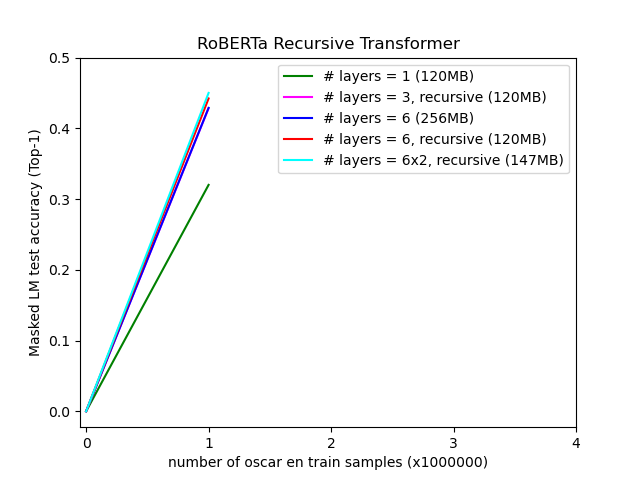
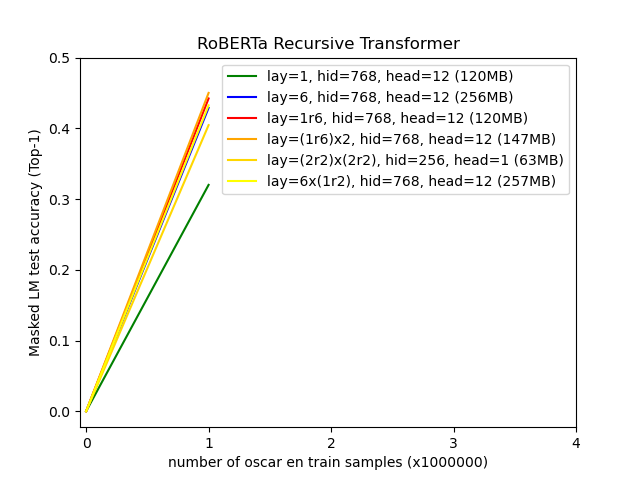
add updated RobertaRecursiveTransformer+RobertaRecursiveTransformerSuperblocks graphs, archive all Nov2022 graphs

Changed region(s): [[0.1875, 0.125, 0.875, 0.6875], [0.1562, 0.6875, 0.1875, 0.7812], [0.125, 0.7812, 0.1562, 0.8438]]

diff --git a/SBNLPpt/SBNLPpt_globalDefs.py b/SBNLPpt/SBNLPpt_globalDefs.py
@@ -43,12 +43,11 @@ useAlgorithmGIA = False
 
 sortDataFilesByName = True	#orig; False
 
-#syntactic bias selection (part 1):
-recursiveLayers = True	#optional
-memoryTraceBias = False	 #optional	#nncustom.Linear adjusts training/inference based on network prior activations
-simulatedDendriticBranches = False	#optional #nncustom.Linear simulates multiple independent fully connected weights per neuron
-
-memoryTraceAtrophy = False	#initialise (dependent var)
+#initialise (dependent vars);
+recursiveLayers = False
+memoryTraceBias = False
+simulatedDendriticBranches = False
+memoryTraceAtrophy = False
 
 statePreprocessDataset = False	#only required once
 stateTrainTokeniser = False	#only required once
@@ -133,6 +132,11 @@ transformerSuperblocks = False
 
 if(useAlgorithmTransformer):
 
+	#syntactic bias selection (part 1):
+	recursiveLayers = True	#optional
+	memoryTraceBias = False	 #optional	#nncustom.Linear adjusts training/inference based on network prior activations
+	simulatedDendriticBranches = False	#optional #nncustom.Linear simulates multiple independent fully connected weights per neuron
+
 	#syntactic bias selection (part 2):
 	transformerPOSembeddings = False
 	transformerAttentionHeadPermutations = False	#calculates KQ for all attention head permutations
@@ -148,33 +152,38 @@ if(useAlgorithmTransformer):
 	transformerSuperblocksRecursiveNumberIterations = 1
 	recursiveLayersNumberIterations = 1
 	recursiveLayersEmulateOrigImplementation = False
+	transformerSuperblocksRecursive = False
+	
 	
 	#initialise (default vars);
-	numberOfHiddenLayers = 6	#6	#default: 6
+	numberOfHiddenLayers = 1	#6	#default: 6
 	numberOfAttentionHeads = 12	#default: 12	#numberOfAttentionHeadsDefault
 	hiddenLayerSizeTransformer = 768	#default: 768 (can be overridden)
 
 	if(transformerSuperblocks):
-		transformerSuperblocksNumber = 2	#segregate nlp and logic layers
+		transformerSuperblocksNumber = 1	#segregate nlp and logic layers
 		transformerSuperblocksLayerNorm = True
 		if(transformerSuperblocksLayerNorm):
 			transformerSuperblocksLayerNormList = True	#separate norm function per layer
-		transformerSuperblocksRecursive = False	#every super block is iterated multiple times
+		transformerSuperblocksRecursive = True	#every super block is iterated multiple times
 		if(transformerSuperblocksRecursive):
 			transformerSuperblocksRecursiveNumberIterations = 2	#configure
-			transformerSmall = True	#reduce GPU RAM
+			transformerSmall = False	#reduce GPU RAM
 			if(transformerSmall):
 				hiddenLayerSizeTransformer = 256
 				numberOfHiddenLayers = 2
-				numberOfAttentionHeads = 1	#prevents recursion across different attention heads, nullifying precise recursion
 	if(recursiveLayers):
-		recursiveLayersEmulateOrigImplementation = True	#emulate orig implementation so that archived models can be reloaded
+		recursiveLayersNormaliseNumParameters2 = False	#optional
+		if(recursiveLayersNormaliseNumParameters2):
+			numberOfAttentionHeads = 24
+			hiddenLayerSizeTransformer = 1536
+		recursiveLayersEmulateOrigImplementation = False	#emulate orig implementation so that archived models can be reloaded
 		if(recursiveLayersEmulateOrigImplementation):
 			recursiveLayersNumberIterations = numberOfHiddenLayers	#numberOfHiddenLayers is interpreted as recursiveLayersNumberIterations
 		else:
-			recursiveLayersNumberIterations = 2
-			numberOfAttentionHeads = 1	#prevents recursion across different attention heads, nullifying precise recursion
-
+			recursiveLayersNumberIterations = 6
+	#if(recursiveLayers or transformerSuperblocksRecursive):
+	#	numberOfAttentionHeads = 1	#prevents recursion across different attention heads, nullifying precise recursion
 
 	if(transformerAttentionHeadPermutations):
 		transformerAttentionHeadPermutationsIndependentOutput = True	#SelfOutput executes dense linear in groups of size numberOfAttentionHeads	#does not support sharedLayerWeightsOutput
@@ -319,10 +328,6 @@ if(GIAsemanticRelationVectorSpaces):
 	if(not GIAgenerateUniqueWordVectorsForRelationTypes):
 		useIndependentReverseRelationsModels = False	#else take input linear layer as forward embeddings and output linear layer [inversed] as reverse embeddings
 		
-if(recursiveLayers or memoryTraceBias or simulatedDendriticBranches or GIAsemanticRelationVectorSpaces or tokenMemoryBank or transformerAttentionHeadPermutations or transformerPOSembeddings or transformerSuperblocks):
-	useSyntacticBiases = True
-else:
-	useSyntacticBiases = False
 if(memoryTraceBias or simulatedDendriticBranches):
 	useLinearCustom = True
 else:
@@ -363,8 +368,12 @@ if(simulatedDendriticBranches):
 	normaliseActivationSparsity = True
 else:
 	numberOfIndependentDendriticBranches = 1
-	
+
 if(useAlgorithmTransformer):
+	if(recursiveLayers or memoryTraceBias or simulatedDendriticBranches or GIAsemanticRelationVectorSpaces or tokenMemoryBank or transformerAttentionHeadPermutations or transformerPOSembeddings or transformerSuperblocks):
+		useSyntacticBiases = True
+	else:
+		useSyntacticBiases = False
 	if(not useSyntacticBiases):
 		officialRobertaBaseModel = False	#optional	#loads official huggingface model with default parameters - https://huggingface.co/roberta-base/tree/main
 	else:
@@ -489,7 +498,7 @@ if(useAlgorithmTransformer):
 			sharedLayerWeights = False	#orig recursiveLayers implementation
 			if(sharedLayerWeights):
 				sharedLayerWeightsOutput = True	#share RobertaOutputSharedLayerOutput/RobertaSelfOutputSharedLayerOutput parameters also
-			recursiveLayersNormaliseNumParameters = False	#default: True	#optional	#if use recursiveLayers normalise/equalise num of parameters with respect to !recursiveLayers
+			recursiveLayersNormaliseNumParameters = False	#default: False	#optional	#if use recursiveLayers normalise/equalise num of parameters with respect to !recursiveLayers	#legacy
 			if(recursiveLayersNormaliseNumParameters):
 				recursiveLayersNormaliseNumParametersIntermediate = True	#normalise intermediateSize parameters also
 		else:
@@ -563,6 +572,9 @@ if(useAlgorithmTransformer):
 			else:
 				numberOfHiddenLayersTokenMemoryBankParameters = numberOfHiddenLayers
 elif(useAlgorithmRNN):
+	#syntactic bias selection (part 1):
+	recursiveLayers = True
+	
 	hiddenLayerSize = 1024	#65536	#2^16 - large hidden size is required for recursive RNN as parameters are shared across a) sequence length and b) number of layers
 	if(SBNLPpt_RNNmodel.applyIOconversionLayers):
 		embeddingLayerSize = 768
@@ -580,6 +592,9 @@ elif(useAlgorithmRNN):
 	else:
 		bidirectional = 1
 elif(useAlgorithmSANI):
+	#syntactic bias selection (part 1):
+	recursiveLayers = True
+	
 	hiddenLayerSize = 1024	#1024	#8192	#1024	#depends on GPU memory	#2^16 = 65536 - large hidden size is required for recursive SANI as parameters are shared across a) sequence length and b) number of layers
 	if(SBNLPpt_SANImodel.applyIOconversionLayers):
 		embeddingLayerSize = 768

diff --git a/graph/RobertaRecursiveTransformerSuperblocks.py b/graph/RobertaRecursiveTransformerSuperblocks.py
@@ -3,18 +3,20 @@ import numpy as np
 
 x = np.array([0, 1, 2, 3, 4])
 y1 = np.array([0, 0.3200524007320404, np.nan, np.nan, np.nan])
-y2 = np.array([0, 0.4284414293527603, np.nan, np.nan, np.nan])
-y3 = np.array([0, 0.42890446846485136, np.nan, np.nan, np.nan])
-y4 = np.array([0, 0.44220867459774016, np.nan, np.nan, np.nan])
-y5 = np.array([0, 0.45005820715427397, np.nan, np.nan, np.nan])
-#y6 = np.array([0, 0.44330320842266085, np.nan, np.nan, np.nan])
+y2 = np.array([0, 0.42890446846485136, np.nan, np.nan, np.nan])
+y3 = np.array([0, 0.44220867459774016, np.nan, np.nan, np.nan])
+y4 = np.array([0, 0.45005820715427397, np.nan, np.nan, np.nan])
+#y4 = np.array([0, 0.44330320842266085, np.nan, np.nan, np.nan])
+y5 = np.array([0, 0.4045298686504364, np.nan, np.nan, np.nan])
+y6 = np.array([0, 0.43245698540210725, np.nan, np.nan, np.nan])
 
-l1, = plt.plot(x, y1, color='green', label='# layers = 1 (120MB)')
-l2, = plt.plot(x, y2, color='magenta', label='# layers = 3, recursive (120MB)')
-l3, = plt.plot(x, y3, color='blue', label='# layers = 6 (256MB)')
-l4, = plt.plot(x, y4, color='red', label='# layers = 6, recursive (120MB)')
-l5, = plt.plot(x, y5, color='aqua', label='# layers = 6x2, recursive (147MB)')
-#l6, = plt.plot(x, y6, color='aqua', label='# layers = 6x2, recursive (147MB) [transformerSegregatedLayersLayerNormList]')
+l1, = plt.plot(x, y1, color='green', label='lay=1, hid=768, head=12 (120MB)')
+l2, = plt.plot(x, y2, color='blue', label='lay=6, hid=768, head=12 (256MB)')
+l3, = plt.plot(x, y3, color='red', label='lay=1r6, hid=768, head=12 (120MB)')
+l4, = plt.plot(x, y4, color='orange', label='lay=(1r6)x2, hid=768, head=12 (147MB)')
+#l4, = plt.plot(x, y4, color='aqua', label='lay=(1r6)x2, hid=768, head=12 (147MB) [transformerSegregatedLayersLayerNormList]')
+l5, = plt.plot(x, y5, color='gold', label='lay=(2r2)x(2r2), hid=256, head=1 (63MB)')
+l6, = plt.plot(x, y6, color='yellow', label='lay=6x(1r2), hid=768, head=12 (257MB)')
 
 plt.xticks(np.arange(min(x), max(x)+1, 1.0))
 plt.yticks(np.arange(0, 0.5+0.1, 0.1))
@@ -23,6 +25,6 @@ plt.xlabel("number of oscar en train samples (x1000000)")
 plt.ylabel("Masked LM test accuracy (Top-1)")
 plt.title("RoBERTa Recursive Transformer")
 
-plt.legend(handles=[l1, l2, l3, l4, l5])
+plt.legend(handles=[l1, l2, l3, l4, l5, l6])
 
 plt.show()

diff --git a/graph/RobertaRecursiveTransformer.py b/graph/RobertaRecursiveTransformer.py
@@ -2,25 +2,23 @@ import matplotlib.pyplot as plt
 import numpy as np
 
 x = np.array([0, 1, 2, 3, 4])
-y1 = np.array([0, 0.4007114856934547, 0.4485383033657074, 0.4697808350682259, 0.4805689078116417])
-y2 = np.array([0, 0.4195622387599945, 0.45833434972524645, 0.477471009747982, 0.4880324535870552])
-y3 = np.array([0, 0.32205438960790633, 0.34977506301760675, 0.3640139799118042, 0.3723136756336689])
-y4 = np.array([0, 0.4107974250018597, 0.44753125154256823, 0.46352191767930984, 0.4760648959302902])
-y5 = np.array([0, 0.30340382710933683, 0.3310104872369766, 0.34348129745364187, 0.35091807383656504])
+y1 = np.array([0, 0.3200524007320404, np.nan, np.nan, np.nan])
+y2 = np.array([0, 0.42890446846485136, np.nan, np.nan, np.nan])
+y3 = np.array([0, 0.44220867459774016, np.nan, np.nan, np.nan])
+y4 = np.array([0, 0.4473719531536102, np.nan, np.nan, np.nan])
 
-l1, = plt.plot(x, y1, color='r', label='# layers = 6, recursive:shared params (norm:249MB)')
-l2, = plt.plot(x, y2, color='b', label='# layers = 6 (256MB)')
-l3, = plt.plot(x, y3, color='g', label='# layers = 1 (norm:249MB)')
-l4, = plt.plot(x, y4, color='pink', label='# layers = 6, recursive (120MB)')
-l5, = plt.plot(x, y5, color='lightgreen', label='# layers = 1 (120MB)')
-
+l1, = plt.plot(x, y1, color='green', label='lay=1, hid=768, head=12 (120MB)')
+l2, = plt.plot(x, y2, color='blue', label='lay=6, hid=768, head=12 (256MB)')
+l3, = plt.plot(x, y3, color='red', label='lay=1r6, hid=768, head=12 (120MB)')
+l4, = plt.plot(x, y4, color='turquoise', label='lay=1r6, hid=1536, head=24 (norm:263MB)')
 
 plt.xticks(np.arange(min(x), max(x)+1, 1.0))
+plt.yticks(np.arange(0, 0.5+0.1, 0.1))
 
 plt.xlabel("number of oscar en train samples (x1000000)")
 plt.ylabel("Masked LM test accuracy (Top-1)")
 plt.title("RoBERTa Recursive Transformer")
 
-plt.legend(handles=[l2, l1, l4, l3, l5])
+plt.legend(handles=[l1, l2, l3, l4])
 
 plt.show()

diff --git a/graph/RobertaRecursiveTransformerHeads.py b/graph/RobertaRecursiveTransformerHeads.py
@@ -1,0 +1,30 @@
+import matplotlib.pyplot as plt
+import numpy as np
+
+x = np.array([0, 1, 2, 3, 4])
+y1 = np.array([0, 0.3200524007320404, np.nan, np.nan, np.nan])
+y2 = np.array([0, 0.4284414293527603, np.nan, np.nan, np.nan])
+y3 = np.array([0, 0.42890446846485136, np.nan, np.nan, np.nan])
+y4 = np.array([0, 0.44220867459774016, np.nan, np.nan, np.nan])
+y5 = np.array([0, 0.37814562149047853, np.nan, np.nan, np.nan])
+y6 = np.array([0, 0.3787440519094467, np.nan, np.nan, np.nan])
+y7 = np.array([0, 0.4473719531536102, np.nan, np.nan, np.nan])
+
+l1, = plt.plot(x, y1, color='green', label='lay=1, hid=768, head=12 (120MB)')
+l2, = plt.plot(x, y2, color='magenta', label='lay=1r3, hid=768, head=12 (120MB)')
+l3, = plt.plot(x, y3, color='blue', label='lay=6, hid=768, head=12 (256MB)')
+l4, = plt.plot(x, y4, color='red', label='lay=1r6, hid=768, head=12 (120MB)')
+l5, = plt.plot(x, y5, color='navy', label='lay=1r6, hid=768, head=1 (123MB)')
+l6, = plt.plot(x, y6, color='purple', label='lay=1r6, hid=1024, head=1 (169MB)')
+l7, = plt.plot(x, y7, color='turquoise', label='lay=1r6, hid=1536, head=24 (norm:263MB)')
+
+plt.xticks(np.arange(min(x), max(x)+1, 1.0))
+plt.yticks(np.arange(0, 0.5+0.1, 0.1))
+
+plt.xlabel("number of oscar en train samples (x1000000)")
+plt.ylabel("Masked LM test accuracy (Top-1)")
+plt.title("RoBERTa Recursive Transformer")
+
+plt.legend(handles=[l1, l2, l3, l4, l5, l6, l7])
+
+plt.show()

diff --git a/graph/archive/Nov2022/RobertaRecursiveTransformer-Nov2022.py b/graph/archive/Nov2022/RobertaRecursiveTransformer-Nov2022.py
@@ -1,0 +1,26 @@
+import matplotlib.pyplot as plt
+import numpy as np
+
+x = np.array([0, 1, 2, 3, 4])
+y1 = np.array([0, 0.4007114856934547, 0.4485383033657074, 0.4697808350682259, 0.4805689078116417])
+y2 = np.array([0, 0.4195622387599945, 0.45833434972524645, 0.477471009747982, 0.4880324535870552])
+y3 = np.array([0, 0.32205438960790633, 0.34977506301760675, 0.3640139799118042, 0.3723136756336689])
+y4 = np.array([0, 0.4107974250018597, 0.44753125154256823, 0.46352191767930984, 0.4760648959302902])
+y5 = np.array([0, 0.30340382710933683, 0.3310104872369766, 0.34348129745364187, 0.35091807383656504])
+
+l1, = plt.plot(x, y1, color='r', label='# layers = 6, recursive:shared params (norm:249MB)')
+l2, = plt.plot(x, y2, color='b', label='# layers = 6 (256MB)')
+l3, = plt.plot(x, y3, color='g', label='# layers = 1 (norm:249MB)')
+l4, = plt.plot(x, y4, color='pink', label='# layers = 6, recursive (120MB)')
+l5, = plt.plot(x, y5, color='lightgreen', label='# layers = 1 (120MB)')
+
+
+plt.xticks(np.arange(min(x), max(x)+1, 1.0))
+
+plt.xlabel("number of oscar en train samples (x1000000)")
+plt.ylabel("Masked LM test accuracy (Top-1)")
+plt.title("RoBERTa Recursive Transformer")
+
+plt.legend(handles=[l2, l1, l4, l3, l5])
+
+plt.show()

diff --git a/README.md b/README.md
@@ -38,15 +38,25 @@ python SBNLPpt_main.py
 
 ![RobertaRecursiveTransformer.png](https://github.com/bairesearch/TSBpt/blob/master/graph/RobertaRecursiveTransformer.png?raw=true)
 
-![RobertaRecursiveTransformerLayers.png](https://github.com/bairesearch/TSBpt/blob/master/graph/RobertaRecursiveTransformerLayers.png?raw=true)
+- [RobertaRecursiveTransformerHeads.png](https://github.com/bairesearch/TSBpt/blob/master/graph/RobertaRecursiveTransformerHeads.png?raw=true)
+
+### archive
+
+![RobertaRecursiveTransformerLayers-Nov2022.png](https://github.com/bairesearch/TSBpt/blob/master/graph/archive/Nov2022/RobertaRecursiveTransformerLayers-Nov2022.png?raw=true)
+
+- [recursiveLayers1a.drawio.png](https://github.com/bairesearch/TSBpt/blob/master/graph/archive/recursiveLayers1a.drawio.png?raw=true)
+- [RobertaRecursiveTransformer-Nov2022.png](https://github.com/bairesearch/TSBpt/blob/master/graph/archive/Nov2022/RobertaRecursiveTransformer-Nov2022.png?raw=true)
 
 ## transformerSuperblocks
 
 ![transformerSuperblocks1b.drawio.png](https://github.com/bairesearch/TSBpt/blob/master/graph/transformerSuperblocks1b.drawio.png?raw=true)
 
-![RobertaRecursiveTransformerSuperblocks-Nov2022.png](https://github.com/bairesearch/TSBpt/blob/master/graph/RobertaRecursiveTransformerSuperblocks-Nov2022.png?raw=true)
-
 ![RobertaRecursiveTransformerSuperblocks.png](https://github.com/bairesearch/TSBpt/blob/master/graph/RobertaRecursiveTransformerSuperblocks.png?raw=true)
+
+### archive
+
+- [transformerSuperblocks1a.drawio.png](https://github.com/bairesearch/TSBpt/blob/master/graph/archive/transformerSuperblocks1a.drawio.png?raw=true)
+- [RobertaRecursiveTransformerSuperblocks-Nov2022.png](https://github.com/bairesearch/TSBpt/blob/master/graph/archive/Nov2022/RobertaRecursiveTransformerSuperblocks-Nov2022.png?raw=true)
 
 ## tokenMemoryBank
 
